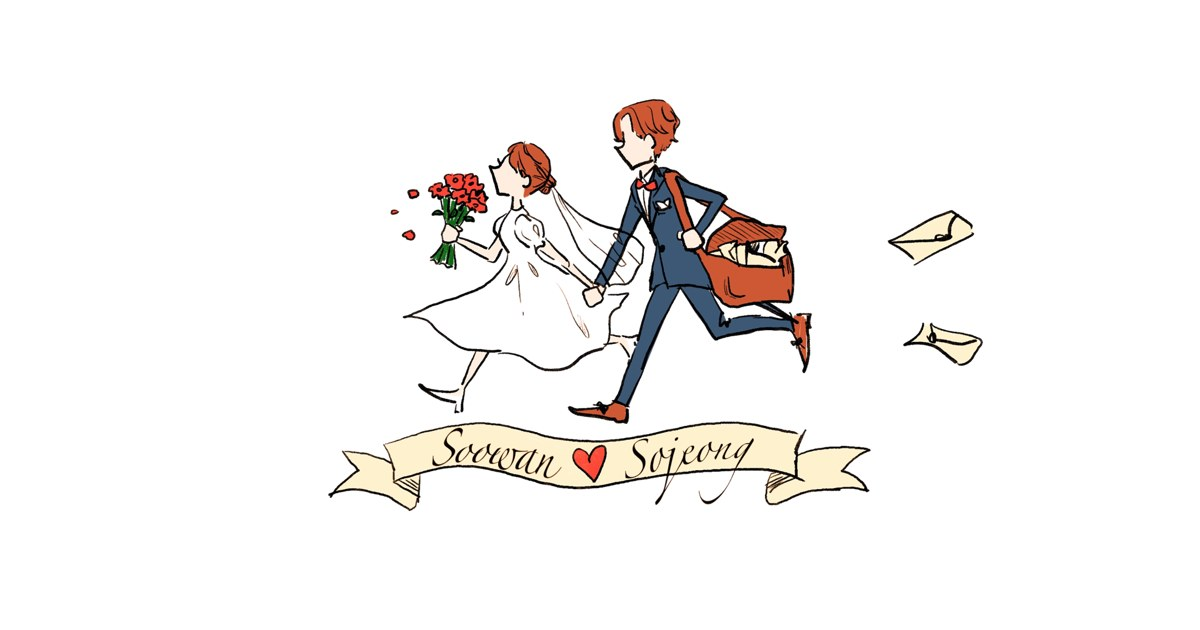
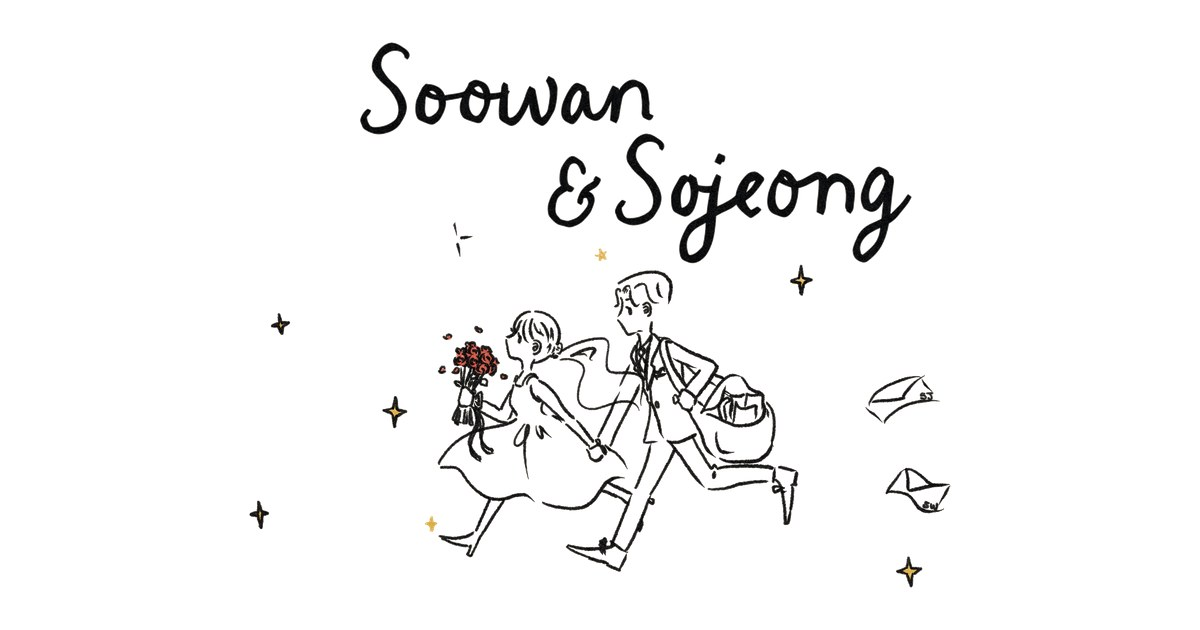
실물 청첩장 그림 반영: 히어로 달리는 신랑신부 선화, 초대글 꽃 덩굴, OG 이미지
- 그림 1(앞면)의 흑백 선화+반짝이로 running.*/running@800.* 교체 (손글씨 이름은 제외)
- 그림 2(뒷면)의 세로 꽃 덩굴을 vine.* 로 추가, 초대글 섹션 오른쪽에 배치(.greeting__vine)
- og.jpg: 손글씨 이름 포함 앞면 전체를 흰 배경 1200x630 에 재구성
- tools/cut-paper.py: 크림색 종이 질감 배경 분리 도구(배경색 추정·얼룩 제거·선 색 복원)
- 원본은 assets/source/ 에 보관, README 반영 상태 갱신, 캐시 버전 올림

diff --git a/index.html b/index.html
@@ -25,7 +25,7 @@
   <link rel="preconnect" href="https://fonts.googleapis.com">
   <link rel="preconnect" href="https://fonts.gstatic.com" crossorigin>
   <link href="https://fonts.googleapis.com/css2?family=Cormorant+Garamond:ital,wght@0,400;1,400&family=Noto+Serif+KR:wght@300;400&family=Caveat:wght@500;600&family=Nanum+Pen+Script&display=swap" rel="stylesheet">
-  <link rel="stylesheet" href="css/style.css?v=20261013d">
+  <link rel="stylesheet" href="css/style.css?v=20261014a">
 </head>
 <body>
 
@@ -49,7 +49,7 @@
       <img class="letter letter--3" src="assets/illust/ico-letter.webp" alt="">
     </div>
     <p class="hero__eyebrow reveal">Kindly join us<br>for the wedding of</p>
-    <!-- TODO(그림 교체): 실물 청첩장에 쓰인 손수정본(흑백 선화+반짝이)을 받으면 assets/illust/running.* 를 같은 이름으로 덮어쓰면 됨 (README "나중에 반영할 것") -->
+    <!-- 실물 청첩장 앞면 그림(흑백 선화+반짝이) — assets/source/실물 앞면_달리는 신랑신부.jpg → tools/cut-paper.py -->
     <figure class="hero__art reveal">
       <picture>
         <source type="image/webp" srcset="assets/illust/running@800.webp 800w, assets/illust/running.webp 1400w" sizes="(max-width: 520px) 90vw, 420px">
@@ -68,6 +68,11 @@
 
   <!-- ───────── 2. 초대 글 ───────── -->
   <section class="section greeting" id="greeting">
+    <!-- 실물 청첩장 뒷면의 세로 꽃 덩굴 -->
+    <picture class="greeting__vine reveal" aria-hidden="true">
+      <source type="image/webp" srcset="assets/illust/vine.webp">
+      <img src="assets/illust/vine.png" alt="">
+    </picture>
     <p class="section__label reveal">Invitation</p>
     <h2 class="section__title reveal" data-bind="greeting.title">소중한 분들을 초대합니다</h2>
     <p class="greeting__body reveal" data-bind="greeting.body"></p>
@@ -205,8 +210,8 @@
 
 <div class="toast" id="toast" role="status" aria-live="polite"></div>
 
-<script src="js/config.js?v=20261013d"></script>
-<script src="js/photos.js?v=20261013d"></script>
-<script src="js/main.js?v=20261013d"></script>
+<script src="js/config.js?v=20261014a"></script>
+<script src="js/photos.js?v=20261014a"></script>
+<script src="js/main.js?v=20261014a"></script>
 </body>
 </html>

diff --git a/css/style.css b/css/style.css
@@ -224,6 +224,10 @@ small { font-weight: 300; }
 /* ─────────────────────────────────────────────
    2. 초대 글
    ───────────────────────────────────────────── */
+/* 실물 뒷면처럼 오른쪽에 세로 꽃 덩굴 — 본문은 덩굴을 피해 조금 좁게 */
+.greeting { position: relative; padding-left: calc(var(--gutter) + 20px); padding-right: calc(var(--gutter) + 20px); }
+.greeting__vine { position: absolute; top: 64px; right: 10px; width: 40px; pointer-events: none; }
+.greeting__vine img { width: 100%; height: auto; }
 .greeting__body { margin: 0 auto 44px; font-size: 15.5px; line-height: 2.05; white-space: pre-line; word-break: keep-all; }
 .families { display: grid; gap: 10px; margin-bottom: 36px; }
 .families__row { margin: 0; display: flex; flex-wrap: wrap; justify-content: center; align-items: baseline; gap: 14px; font-size: 15px; }

diff --git a/tools/cut-paper.py b/tools/cut-paper.py
@@ -1,0 +1,78 @@
+"""
+종이(크림색·질감) 배경 그림 → 투명 PNG/WebP   (흰 배경은 cut-illust.py)
+
+  python tools/cut-paper.py "원본.jpg" 이름 [최대폭] [옵션]
+  → assets/illust/이름.png, 이름.webp
+
+옵션
+  --box L,T,R,B        원본 픽셀 기준으로 먼저 잘라낼 영역
+  --drop-above Y       윗변이 Y(원본 px)보다 위에 있는 덩어리는 버림 (손글씨 제거용)
+  --min-area N         N px 미만 덩어리는 종이 얼룩으로 보고 버림 (기본 400)
+  --pad N              여백 px (기본 24, 리사이즈 전 기준)
+
+배경색은 가장자리 중앙값으로 잡고, 색 거리에 따라 알파를 매긴 뒤
+알파로 되돌려(un-premultiply) 선 색을 복원하므로 어느 배경에 올려도 테두리가 뜨지 않는다.
+"""
+import sys
+from pathlib import Path
+from PIL import Image, ImageFilter
+import numpy as np
+from scipy import ndimage
+
+args = sys.argv[1:]
+opt = {}
+pos = []
+i = 0
+while i < len(args):
+    if args[i].startswith("--"):
+        opt[args[i][2:]] = args[i + 1]; i += 2
+    else:
+        pos.append(args[i]); i += 1
+src, name = pos[0], pos[1]
+maxw = int(pos[2]) if len(pos) > 2 else 1000
+dst = Path(__file__).resolve().parent.parent / "assets" / "illust"
+
+im = Image.open(src).convert("RGB")
+full = np.asarray(im).astype(np.float32)
+edge = np.concatenate([full[:60].reshape(-1, 3), full[-60:].reshape(-1, 3), full[:, :60].reshape(-1, 3), full[:, -60:].reshape(-1, 3)])
+bg = np.median(edge, 0)
+
+if "box" in opt:
+    L, T, R, B = map(int, opt["box"].split(","))
+    im = im.crop((L, T, R, B)); oy = T
+else:
+    oy = 0
+rgb = np.asarray(im).astype(np.float32)
+blur = np.asarray(im.filter(ImageFilter.GaussianBlur(1.2))).astype(np.float32)
+dist = np.sqrt(((blur - bg) ** 2).sum(-1))
+LO, HI = 38.0, 110.0                       # 종이 노이즈 상한 ~64, 선 ~300
+alpha = np.clip((dist - LO) / (HI - LO), 0, 1)
+
+lab, n = ndimage.label(alpha > 0.35)
+keep = np.zeros(n + 1, bool)
+min_area = int(opt.get("min-area", 400))
+drop_above = int(opt["drop-above"]) - oy if "drop-above" in opt else None
+objs = ndimage.find_objects(lab)
+areas = ndimage.sum(np.ones_like(lab), lab, index=np.arange(n + 1))
+for k, sl in enumerate(objs, start=1):
+    if sl is None: continue
+    if areas[k] < min_area: continue
+    if drop_above is not None and sl[0].start < drop_above: continue
+    keep[k] = True
+mask = keep[lab]
+mask = ndimage.binary_dilation(mask, iterations=3)   # 램프 가장자리까지 살림
+alpha = np.where(mask, alpha, 0).astype(np.float32)
+
+# 색 복원: orig = a*ink + (1-a)*bg  →  ink = (orig - (1-a)*bg) / a
+a3 = np.clip(alpha, 0.08, 1)[..., None]
+ink = (rgb - (1 - a3) * bg) / a3
+ink = np.where(alpha[..., None] > 0, ink, rgb)
+out = Image.fromarray(np.dstack([np.clip(ink, 0, 255), alpha * 255]).astype(np.uint8), "RGBA")
+
+pad = int(opt.get("pad", 24))
+b = Image.fromarray((alpha > 0.3).astype(np.uint8) * 255).getbbox()
+w, h = out.size
+out = out.crop((max(0, b[0] - pad), max(0, b[1] - pad), min(w, b[2] + pad), min(h, b[3] + pad)))
+out.thumbnail((maxw, maxw), Image.LANCZOS)
+out.save(dst / f"{name}.png", optimize=True); out.save(dst / f"{name}.webp", quality=90, method=6)
+print(name, out.size, f"bg={bg.astype(int).tolist()} components kept {keep.sum()}/{n}")

diff --git a/README.md b/README.md
@@ -30,31 +30,34 @@ python -m http.server 8000
 2. `python tools/resize-photos.py`
 3. commit & push
 
-## 나중에 반영할 것 (실물 청첩장 기준)
+## 실물 청첩장 반영 상태
 
-실물 청첩장(`청첩장_실물 (1).jpg`, `(2).jpg`)에 쓰인 **약도**와 **손으로 수정된 그림**은 아직 웹에 반영하지 않았다.
-받으면 아래 순서로 넣는다.
+실물 청첩장(`assets/source/실물 앞면_달리는 신랑신부.jpg`, `실물 뒷면_꽃덩굴.jpg`)의 그림은 반영 완료. **약도**만 남았다.
 
-### 1) 약도
+### 1) 약도 (아직)
 1. 약도 파일을 `assets/illust/map.png` (또는 .webp/.jpg) 로 저장 — 4:3 비율이 지도 칸에 가장 잘 맞음. 흰 배경이면 `python tools/cut-illust.py <원본> map 1200` 으로 투명화 가능
 2. `js/config.js` → `venue.mapImage: "assets/illust/map.png"`
 3. 끝. (`index.html` 의 "약도 준비 중" 플레이스홀더는 자동으로 교체됨)
 
-### 2) 손으로 수정된 그림으로 교체
-현재 쓰는 파일과 위치 (같은 파일명으로 덮어쓰면 코드 수정 없이 교체됨):
+### 2) 실물 그림 (반영 완료)
 
 | 그림 | 파일 | 쓰이는 곳 |
 |---|---|---|
 | 달리는 신랑신부 (실물 앞면, 흑백 선화 + 반짝이) | `assets/illust/running.{png,webp}`, `running@800.*` | 히어로 (`index.html` `.hero__art`) |
-| 수레 신랑신부 | `assets/illust/wheelbarrow.*`, `wheelbarrow@800.*` | 사진 편지함 (`.letterbox__art`) |
-| 인사하는 신랑신부 | `assets/illust/bow.*`, `bow@600.*` | 푸터 (`.footer__bow`) |
-| 봉투 | `assets/illust/envelope.*`, `envelope@600.*` | 인트로 (`.envelope__paper`) |
-| 우편가방 | `assets/illust/mailbag@300.*` | 업로드 버튼 (`.upload__icon`) |
-| 꽃 덩굴 (실물 뒷면 세로 장식) | 아직 없음 → `assets/illust/vine.*` 로 넣고 `.section__title` 옆이나 섹션 구분용으로 사용 | — |
+| 꽃 덩굴 (실물 뒷면 세로 장식) | `assets/illust/vine.*` | 초대글 오른쪽 (`.greeting__vine`) |
+| 앞면 전체 (손글씨 이름 + 그림) | `assets/illust/og.jpg` | 카카오톡 미리보기 |
 
-교체 절차: 원본을 `assets/source/` 에 두고 `python tools/cut-illust.py "assets/source/파일.png" running 1400`
-→ 배경 제거·크롭·PNG/WebP 생성. 신랑신부가 그림 중앙에 오도록 자동 패딩됨. `@800` 등 축소본도 함께 만들려면 폭을 바꿔 한 번 더 실행.
-교체 후 `assets/illust/og.jpg`(카카오톡 미리보기)도 다시 만들고 developers.kakao.com/tool/clear/og 에서 캐시 삭제.
+GPT 그림 그대로인 것: 수레 신랑신부(`wheelbarrow.*`, 사진 편지함), 인사하는 신랑신부(`bow.*`, 푸터), 봉투(`envelope.*`, 인트로), 우편가방(`mailbag@300.*`, 업로드 버튼).
+
+다시 만들기 (원본은 크림색 종이 질감이라 `cut-paper.py` 사용):
+```
+python tools/cut-paper.py "assets/source/실물 앞면_달리는 신랑신부.jpg" running     1400 --box 500,600,3000,2150 --drop-above 840 --min-area 250
+python tools/cut-paper.py "assets/source/실물 앞면_달리는 신랑신부.jpg" running@800  800 --box 500,600,3000,2150 --drop-above 840 --min-area 250
+python tools/cut-paper.py "assets/source/실물 뒷면_꽃덩굴.jpg"          vine        1200 --box 1560,0,1980,2480 --min-area 250 --pad 12
+```
+`--drop-above 840` 은 그림 위의 손글씨 "Soowan & Sojeong" 을 떼어내는 옵션(이름은 HTML 에서 폰트로 찍음).
+OG 는 같은 스크립트로 `--box 500,200,3000,2150` (손글씨 포함) 으로 뽑아 1200×630 흰 배경 가운데에 올린 것.
+OG 를 바꾸면 developers.kakao.com/tool/clear/og 에서 캐시 삭제.
 
 ### 3) 실물에서 가져온 문구·폰트 (이미 반영됨)
 - 인사말: 실물 뒷면 문구 그대로 (`config.js` `greeting.body`)
@@ -63,7 +66,7 @@ python -m http.server 8000
 
 ## 그림 추가하기
 
-GPT 등에서 받은 원본은 `assets/source/` 에 두고, 배경 제거·분할은 `tools/cut-illust.py` 로 한다(흰 배경 기준).
+원본은 `assets/source/` 에 두고, 배경 제거는 흰 배경이면 `tools/cut-illust.py`, 크림색·종이 질감 배경이면 `tools/cut-paper.py` 로 한다.
 
 ## 사진·동영상 편지함 연결
 
